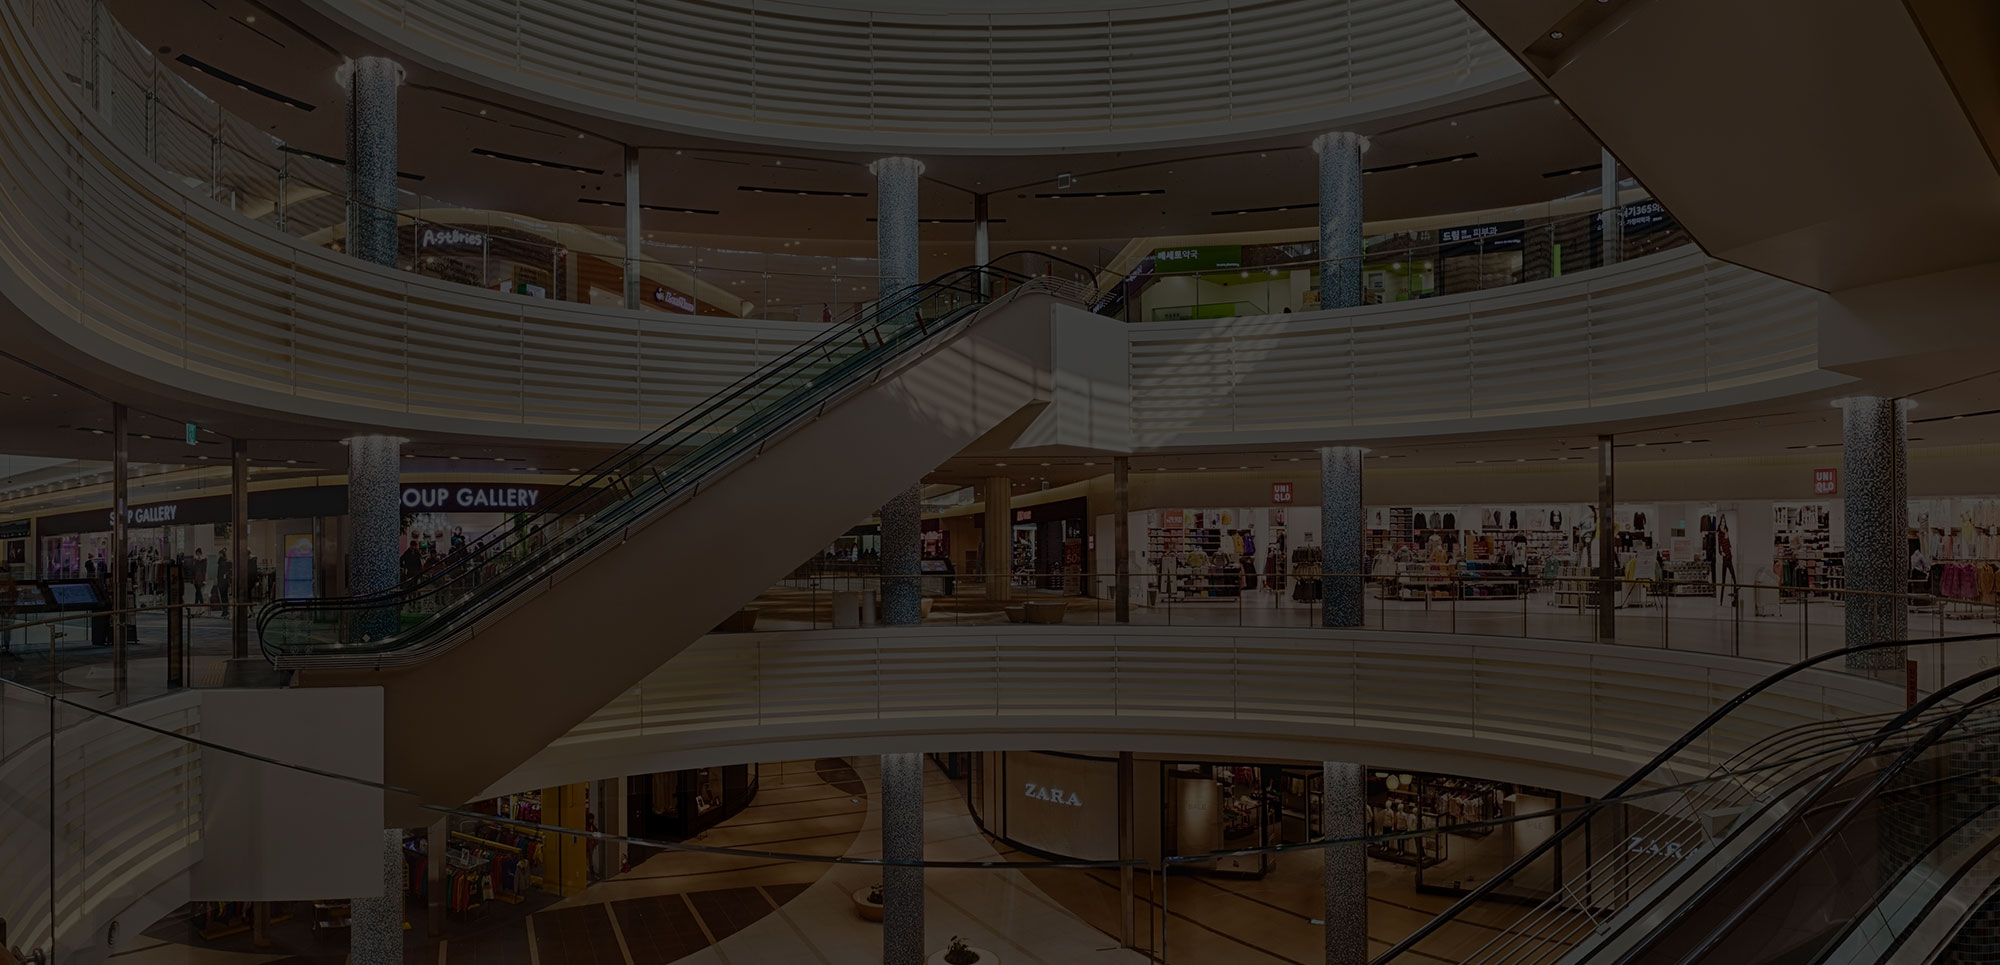
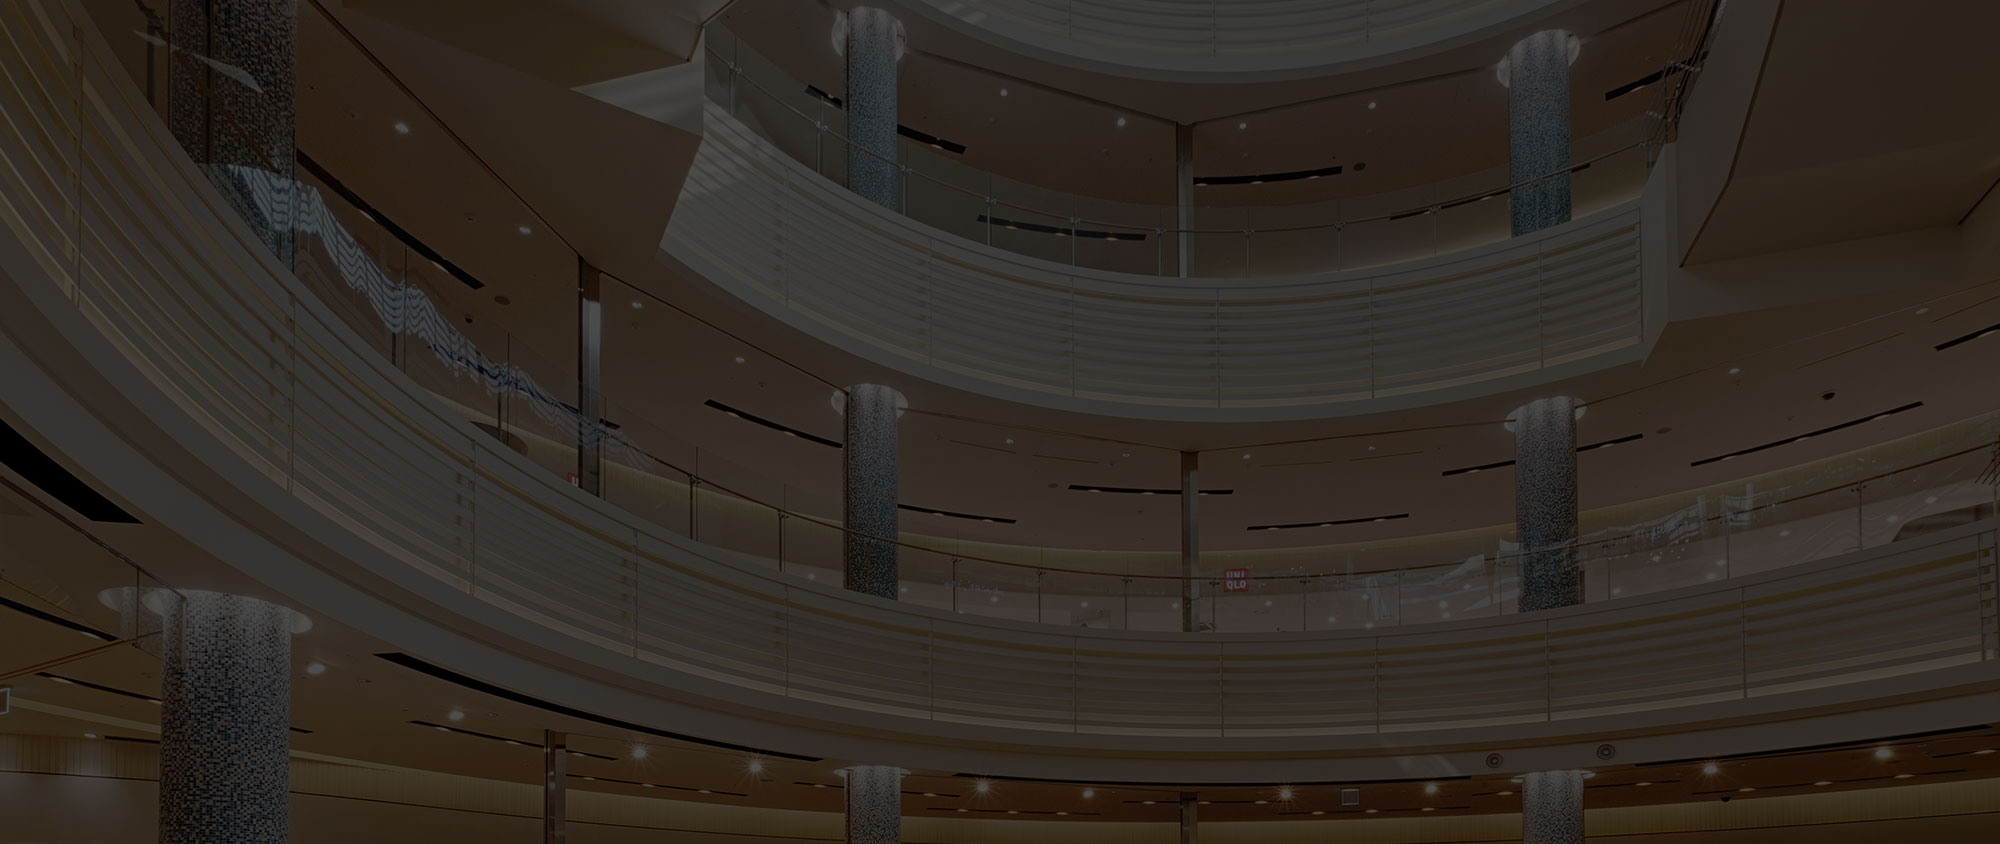
메인 작성 중...

diff --git a/assets/fontello/css/fontello-embedded.css b/assets/fontello/css/fontello-embedded.css
@@ -1,15 +1,15 @@
 @font-face {
   font-family: 'fontello';
-  src: url('../font/fontello.eot?6763690');
-  src: url('../font/fontello.eot?6763690#iefix') format('embedded-opentype'),
-       url('../font/fontello.svg?6763690#fontello') format('svg');
+  src: url('../font/fontello.eot?58844356');
+  src: url('../font/fontello.eot?58844356#iefix') format('embedded-opentype'),
+       url('../font/fontello.svg?58844356#fontello') format('svg');
   font-weight: normal;
   font-style: normal;
 }
 @font-face {
   font-family: 'fontello';
[4 lines of base64/hex data omitted]
 }
 /* Chrome hack: SVG is rendered more smooth in Windozze. 100% magic, uncomment if you need it. */
 /* Note, that will break hinting! In other OS-es font will be not as sharp as it could be */
@@ -17,7 +17,7 @@
 @media screen and (-webkit-min-device-pixel-ratio:0) {
   @font-face {
     font-family: 'fontello';
-    src: url('../font/fontello.svg?6763690#fontello') format('svg');
+    src: url('../font/fontello.svg?58844356#fontello') format('svg');
   }
 }
 */
@@ -66,6 +66,7 @@
 .icon-cancel-circled2:before { content: '\e80b'; } /* '' */
 .icon-dot:before { content: '\e80c'; } /* '' */
 .icon-calendar:before { content: '\e80d'; } /* '' */
+.icon-search-1:before { content: '\e80e'; } /* '' */
 .icon-facebook:before { content: '\f09a'; } /* '' */
 .icon-angle-double-left:before { content: '\f100'; } /* '' */
 .icon-angle-double-right:before { content: '\f101'; } /* '' */

diff --git a/assets/fontello/demo.html b/assets/fontello/demo.html
@@ -229,11 +229,11 @@ body {
 }
 @font-face {
       font-family: 'fontello';
-      src: url('./font/fontello.eot?36751701');
-      src: url('./font/fontello.eot?36751701#iefix') format('embedded-opentype'),
-           url('./font/fontello.woff?36751701') format('woff'),
-           url('./font/fontello.ttf?36751701') format('truetype'),
-           url('./font/fontello.svg?36751701#fontello') format('svg');
+      src: url('./font/fontello.eot?79970538');
+      src: url('./font/fontello.eot?79970538#iefix') format('embedded-opentype'),
+           url('./font/fontello.woff?79970538') format('woff'),
+           url('./font/fontello.ttf?79970538') format('truetype'),
+           url('./font/fontello.svg?79970538#fontello') format('svg');
       font-weight: normal;
       font-style: normal;
     }
@@ -321,16 +321,17 @@ body {
       <div class="row">
         <div title="Code: 0xe80c" class="the-icons span3"><i class="demo-icon icon-dot">&#xe80c;</i> <span class="i-name">icon-dot</span><span class="i-code">0xe80c</span></div>
         <div title="Code: 0xe80d" class="the-icons span3"><i class="demo-icon icon-calendar">&#xe80d;</i> <span class="i-name">icon-calendar</span><span class="i-code">0xe80d</span></div>
+        <div title="Code: 0xe80e" class="the-icons span3"><i class="demo-icon icon-search-1">&#xe80e;</i> <span class="i-name">icon-search-1</span><span class="i-code">0xe80e</span></div>
         <div title="Code: 0xf09a" class="the-icons span3"><i class="demo-icon icon-facebook">&#xf09a;</i> <span class="i-name">icon-facebook</span><span class="i-code">0xf09a</span></div>
-        <div title="Code: 0xf100" class="the-icons span3"><i class="demo-icon icon-angle-double-left">&#xf100;</i> <span class="i-name">icon-angle-double-left</span><span class="i-code">0xf100</span></div>
       </div>
       <div class="row">
+        <div title="Code: 0xf100" class="the-icons span3"><i class="demo-icon icon-angle-double-left">&#xf100;</i> <span class="i-name">icon-angle-double-left</span><span class="i-code">0xf100</span></div>
         <div title="Code: 0xf101" class="the-icons span3"><i class="demo-icon icon-angle-double-right">&#xf101;</i> <span class="i-name">icon-angle-double-right</span><span class="i-code">0xf101</span></div>
         <div title="Code: 0xf104" class="the-icons span3"><i class="demo-icon icon-angle-left">&#xf104;</i> <span class="i-name">icon-angle-left</span><span class="i-code">0xf104</span></div>
         <div title="Code: 0xf105" class="the-icons span3"><i class="demo-icon icon-angle-right">&#xf105;</i> <span class="i-name">icon-angle-right</span><span class="i-code">0xf105</span></div>
-        <div title="Code: 0xf106" class="the-icons span3"><i class="demo-icon icon-angle-up">&#xf106;</i> <span class="i-name">icon-angle-up</span><span class="i-code">0xf106</span></div>
       </div>
       <div class="row">
+        <div title="Code: 0xf106" class="the-icons span3"><i class="demo-icon icon-angle-up">&#xf106;</i> <span class="i-name">icon-angle-up</span><span class="i-code">0xf106</span></div>
         <div title="Code: 0xf107" class="the-icons span3"><i class="demo-icon icon-angle-down">&#xf107;</i> <span class="i-name">icon-angle-down</span><span class="i-code">0xf107</span></div>
       </div>
     </div>

diff --git a/assets/fontello/css/fontello.css b/assets/fontello/css/fontello.css
@@ -1,11 +1,11 @@
 @font-face {
   font-family: 'fontello';
-  src: url('../font/fontello.eot?98691954');
-  src: url('../font/fontello.eot?98691954#iefix') format('embedded-opentype'),
-       url('../font/fontello.woff2?98691954') format('woff2'),
-       url('../font/fontello.woff?98691954') format('woff'),
-       url('../font/fontello.ttf?98691954') format('truetype'),
-       url('../font/fontello.svg?98691954#fontello') format('svg');
+  src: url('../font/fontello.eot?4737149');
+  src: url('../font/fontello.eot?4737149#iefix') format('embedded-opentype'),
+       url('../font/fontello.woff2?4737149') format('woff2'),
+       url('../font/fontello.woff?4737149') format('woff'),
+       url('../font/fontello.ttf?4737149') format('truetype'),
+       url('../font/fontello.svg?4737149#fontello') format('svg');
   font-weight: normal;
   font-style: normal;
 }
@@ -15,7 +15,7 @@
 @media screen and (-webkit-min-device-pixel-ratio:0) {
   @font-face {
     font-family: 'fontello';
-    src: url('../font/fontello.svg?98691954#fontello') format('svg');
+    src: url('../font/fontello.svg?4737149#fontello') format('svg');
   }
 }
 */
@@ -69,6 +69,7 @@
 .icon-cancel-circled2:before { content: '\e80b'; } /* '' */
 .icon-dot:before { content: '\e80c'; } /* '' */
 .icon-calendar:before { content: '\e80d'; } /* '' */
+.icon-search-1:before { content: '\e80e'; } /* '' */
 .icon-facebook:before { content: '\f09a'; } /* '' */
 .icon-angle-double-left:before { content: '\f100'; } /* '' */
 .icon-angle-double-right:before { content: '\f101'; } /* '' */

diff --git a/assets/js/common.js b/assets/js/common.js
@@ -18,9 +18,11 @@
     // 모바일 메뉴 관련 버튼
     $(document).on('click', '#header .btn-menu', function() {
         $('body').addClass('gnb-open');
+        $('#gnb-aside .btn-close').focus();
     });
     $(document).on('click', '#gnb-aside .btn-close', function() {
         $('body').removeClass('gnb-open');
+        $('#header .btn-menu').focus();
     });
     $(document).on('click', '#gnb-aside', function(e) {
         if ($(e.target).attr('id') === 'gnb-aside') {
@@ -55,13 +57,18 @@
     });
     
     $(window).on('scroll', function() {
-        //console.log( $('#gnb').scrollTop() );
-        console.log( $('#gnb').offset().top);
-        console.log( $('#gnb').position().top);
-        if ( $(this).scrollTop() > 200 ) {
-            $('#gnb').addClass('fixed');
-        } else {
-            $('#gnb').removeClass('fixed');
+        if ($('body').hasClass('sub')) {
+            if ($(this).scrollTop() > 200) {
+                $('#gnb').addClass('fixed');
+            } else {
+                $('#gnb').removeClass('fixed');
+            }
+        } else if ($('body').hasClass('main')) {
+            if ($(this).scrollTop() > 567) {
+                $('#gnb').addClass('fixed');
+            } else {
+                $('#gnb').removeClass('fixed');
+            }
         }
     });
 })(jQuery);

diff --git a/assets/css/default.scss b/assets/css/default.scss
@@ -4,10 +4,6 @@
 @import url('https://fonts.googleapis.com/css?family=Lato:100,300,400,700,900');
 @import url('https://fonts.googleapis.com/css?family=Roboto');
 
-*:focus {
-    border: 10px solid black !important;
-}
-
 h1, h2, h3,h4, h5, h6 {
     margin-top: 0;
     margin-bottom: 0;
@@ -530,7 +526,7 @@ body.gnb-open {
     height: 230px;
     background-image: url(/assets/images/bg_header.jpg);
     background-size: 200% auto;
-    background-position: 50% 20%;
+    background-position: 50% 50%;
     @media (min-width: $sm) {
         height: 380px;
         background-size: cover;
@@ -775,7 +771,7 @@ body.gnb-open {
                 > a {
                     display: block;
                     width: 100%;
-                    all: 48px;
+                    height: 48px;
                     color: #fff;
                     background-color: #3e4347;
                     text-align: center;
@@ -848,7 +844,7 @@ body.gnb-open {
     }
     &.fixed {
         position: fixed;
-        top: 0;
+        top: 0 !important;
         background-image: url(/assets/images/bg_gnb.gif);
         background-repeat: repeat-x;
         background-size: auto 48px;

diff --git a/assets/css/default.css b/assets/css/default.css
@@ -1,9 +1,6 @@
 @import url(http://fonts.googleapis.com/earlyaccess/notosanskr.css);
 @import url("https://fonts.googleapis.com/css?family=Lato:100,300,400,700,900");
 @import url("https://fonts.googleapis.com/css?family=Roboto");
-*:focus {
-  border: 10px solid black !important; }
-
 h1, h2, h3, h4, h5, h6 {
   margin-top: 0;
   margin-bottom: 0; }
@@ -564,7 +561,7 @@ body.gnb-open {
   height: 230px;
   background-image: url(/assets/images/bg_header.jpg);
   background-size: 200% auto;
-  background-position: 50% 20%; }
+  background-position: 50% 50%; }
   @media (min-width: 768px) {
     #header {
       height: 380px;
@@ -755,7 +752,7 @@ body.gnb-open {
         #gnb .container > ul > li > a {
           display: block;
           width: 100%;
-          all: 48px;
+          height: 48px;
           color: #fff;
           background-color: #3e4347;
           text-align: center;
@@ -797,7 +794,7 @@ body.gnb-open {
       display: block; }
   #gnb.fixed {
     position: fixed;
-    top: 0;
+    top: 0 !important;
     background-image: url(/assets/images/bg_gnb.gif);
     background-repeat: repeat-x;
     background-size: auto 48px;

diff --git a/assets/fontello/css/fontello-ie7-codes.css b/assets/fontello/css/fontello-ie7-codes.css
@@ -13,6 +13,7 @@
 .icon-cancel-circled2 { *zoom: expression( this.runtimeStyle['zoom'] = '1', this.innerHTML = '&#xe80b;&nbsp;'); }
 .icon-dot { *zoom: expression( this.runtimeStyle['zoom'] = '1', this.innerHTML = '&#xe80c;&nbsp;'); }
 .icon-calendar { *zoom: expression( this.runtimeStyle['zoom'] = '1', this.innerHTML = '&#xe80d;&nbsp;'); }
+.icon-search-1 { *zoom: expression( this.runtimeStyle['zoom'] = '1', this.innerHTML = '&#xe80e;&nbsp;'); }
 .icon-facebook { *zoom: expression( this.runtimeStyle['zoom'] = '1', this.innerHTML = '&#xf09a;&nbsp;'); }
 .icon-angle-double-left { *zoom: expression( this.runtimeStyle['zoom'] = '1', this.innerHTML = '&#xf100;&nbsp;'); }
 .icon-angle-double-right { *zoom: expression( this.runtimeStyle['zoom'] = '1', this.innerHTML = '&#xf101;&nbsp;'); }

diff --git a/assets/fontello/css/fontello-ie7.css b/assets/fontello/css/fontello-ie7.css
@@ -24,6 +24,7 @@
 .icon-cancel-circled2 { *zoom: expression( this.runtimeStyle['zoom'] = '1', this.innerHTML = '&#xe80b;&nbsp;'); }
 .icon-dot { *zoom: expression( this.runtimeStyle['zoom'] = '1', this.innerHTML = '&#xe80c;&nbsp;'); }
 .icon-calendar { *zoom: expression( this.runtimeStyle['zoom'] = '1', this.innerHTML = '&#xe80d;&nbsp;'); }
+.icon-search-1 { *zoom: expression( this.runtimeStyle['zoom'] = '1', this.innerHTML = '&#xe80e;&nbsp;'); }
 .icon-facebook { *zoom: expression( this.runtimeStyle['zoom'] = '1', this.innerHTML = '&#xf09a;&nbsp;'); }
 .icon-angle-double-left { *zoom: expression( this.runtimeStyle['zoom'] = '1', this.innerHTML = '&#xf100;&nbsp;'); }
 .icon-angle-double-right { *zoom: expression( this.runtimeStyle['zoom'] = '1', this.innerHTML = '&#xf101;&nbsp;'); }

diff --git a/assets/fontello/css/fontello-codes.css b/assets/fontello/css/fontello-codes.css
@@ -13,6 +13,7 @@
 .icon-cancel-circled2:before { content: '\e80b'; } /* '' */
 .icon-dot:before { content: '\e80c'; } /* '' */
 .icon-calendar:before { content: '\e80d'; } /* '' */
+.icon-search-1:before { content: '\e80e'; } /* '' */
 .icon-facebook:before { content: '\f09a'; } /* '' */
 .icon-angle-double-left:before { content: '\f100'; } /* '' */
 .icon-angle-double-right:before { content: '\f101'; } /* '' */

diff --git a/index.php b/index.php
@@ -1,4 +1,5 @@
 <?php require_once($_SERVER['DOCUMENT_ROOT'].'/inc/dochead.php'); ?>
+<link rel="stylesheet" href="/assets/css/main.css">
 </head>
 <body class="main">
     <?php require_once($_SERVER['DOCUMENT_ROOT'].'/inc/gnb_aside.php'); ?>
@@ -9,19 +10,51 @@
             <?php require_once($_SERVER['DOCUMENT_ROOT'].'/inc/top_nav.php'); ?>
             <?php require_once($_SERVER['DOCUMENT_ROOT'].'/inc/gnb.php'); ?>
             <div class="jumbo">
-                <h1><small>스퀘어원 소개</small>SQUARE1</h1>
-                <p>
-                    인천에 새로운 문화와 라이프 스타일이 시작됩니다.<br>
-                    새로운 쇼핑세상으로 초대합니다.
-                </p>
+                <h1>
+                    ENJOY YOUR<br>
+                    <b>LIFE TIME !</b>
+                </h1>
             </div>
         </header>
-        <main id="content">
-            <?php require_once($_SERVER['DOCUMENT_ROOT'].'/inc/lnb1.php'); ?>
-            <div class="page-header">
-                <h1><span class="square1">SQUARE<i>1</i></span> 소개</h1>
-                <nav class="snb">
-                </nav>
+        <main id="content" style="height: 2000px;">
+            <div class="container">
+                <div class="row">
+                    <div class="col-xs-12 col-sm-6 col-lg-3">
+                        <div id="shortcuts">
+                            <ul>
+                                <li><a href="#"><i><img src="/assets/images/ico_gift.png" alt=""></i> 브랜드 입점 매장 소개</a></li>
+                                <li><a href="#"><i><img src="/assets/images/ico_star.png" alt=""></i> 편의시설 안내</a></li>
+                                <li><a href="#"><i><img src="/assets/images/ico_parking.png" alt=""></i>주차시설 안내</a></li>
+                                <li><a href="#"><i><img src="/assets/images/ico_wallet.png" alt=""></i>분실물센터 안내</a></li>
+                                <li><a href="#"><i><img src="/assets/images/ico_check.png" alt=""></i>대관신청 안내</a></li>
+                                <li><a href="#"><i><img src="/assets/images/ico_microphone.png" alt=""></i>공지사항</a></li>
+                            </ul>
+                        </div>
+                    </div>
+                    <div class="col-xs-12 col-sm-6 col-lg-3">
+                        <section id="search-store">
+                            <h3>SQUARE1에 <br class="visible-lg">입점한 <br class="visible-sm visible-md">매장을 <br class="visible-xs">쉽고 간편하게 <br class="visible-sm visible-md visible-lg">검색하세요.</h3>
+                            <p>매장명으로 쉽게 검색하실 수 있습니다.</p>
+                            <div class="form-area">
+                                <form>
+                                    <div class="form-group">
+                                        <label for="search-store-name" class="sr-only">검색매장명</label>
+                                        <input type="text" class="form-control" name="#">
+                                        <button class="btn" type="submit"><i class="icon-search-1"></i></button>
+                                    </div>
+                                </form>
+                            </div>
+                        </section>
+                    </div>
+                    <div class="col-xs-6 col-sm-6 col-lg-3">영업시간안내</div>
+                    <div class="col-xs-6 col-sm-6 col-lg-3">층별안내</div>
+                </div>
+                <div class="row">
+                    <div class="col-xs-12 col-lg-6"><div style="height: 100px;">이벤트배너</div></div>
+                    <div class="col-xs-12 col-lg-6">입점안내</div>
+                    <div class="col-xs-6 col-lg-3">찾아오시는 길</div>
+                    <div class="col-xs-6 col-lg-3">멤버십 서비스</div>
+                </div>
             </div>
         </main>
         <?php require_once($_SERVER['DOCUMENT_ROOT'].'/inc/footer.php'); ?>

diff --git a/inc/gnb_aside.php b/inc/gnb_aside.php
@@ -1,4 +1,4 @@
-<nav id="gnb-aside" class="hidden-lg" aria-hidden="true">
+<nav id="gnb-aside" class="hidden-lg" aria-hidden="true" tabindex="-1">
     <div class="back"></div>
     <div class="content">
         <header>
